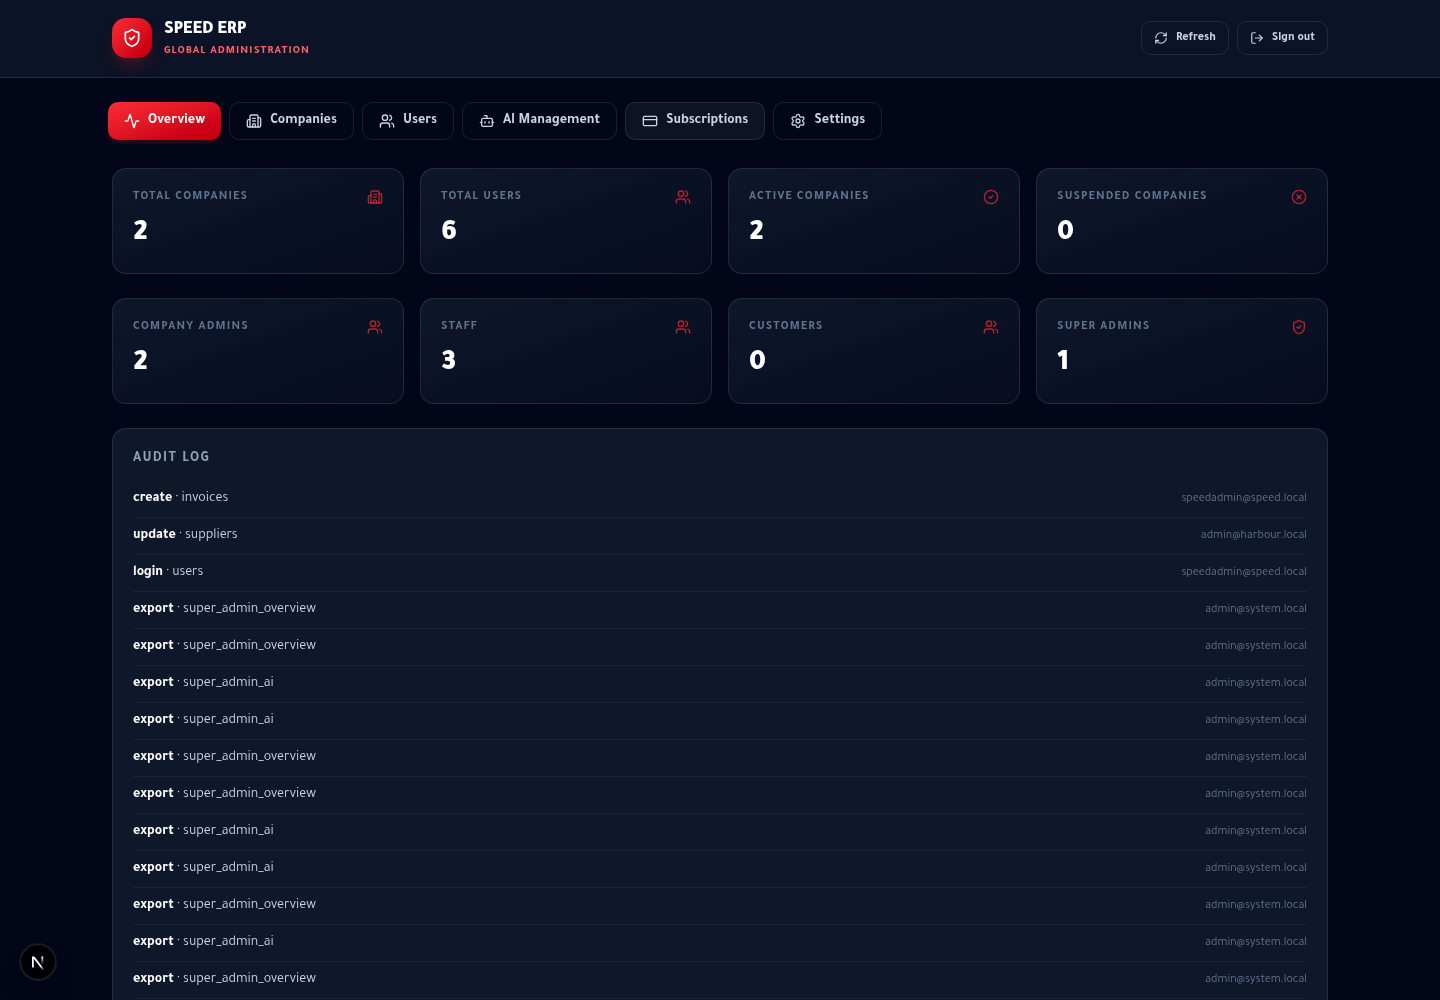
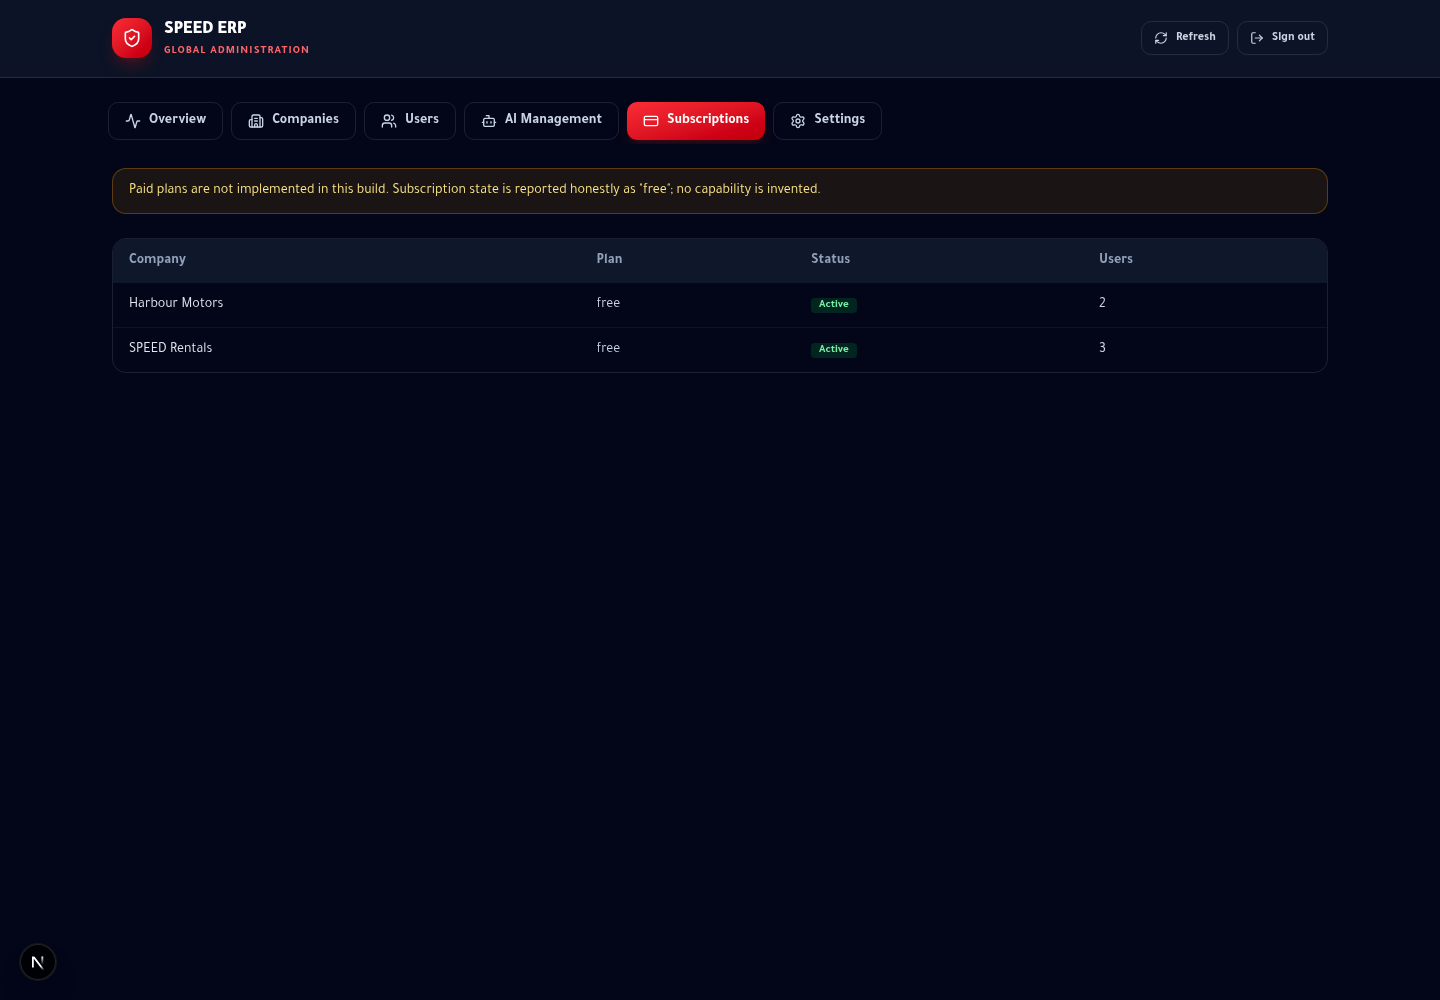
fix(exec54): super-admin tab screenshots were mislabeled
The capture script's only readiness test was `innerText.length > 80`, which the
page shell (header + tab bar) already satisfies. A click that landed before
React hydrated was silently dropped, so all six super-admin tab screenshots
were committed under the wrong names - a plausible-looking image that proved
nothing.

The script now:
  - accepts an `expect` marker per shot and fails if that text never renders;
  - retries the tab click until the target panel actually appears
    (`pageHasText`), instead of clicking once and hoping;
  - every super-admin tab declares a marker only its own panel renders
    (TOTAL COMPANIES / Action / PICK A COMPANY / REPAIR EXECUTIONS /
    "not implemented" / GLOBAL SETTINGS).

Re-captured: the six desktop tab images are now 5-60% pixel-different from each
other and have 6 distinct hashes (previously 6/6 identical). Same for mobile.
All 56 screenshots distinct, none near-blank.

Test updated to assert the stronger contract (marker + retry), not the old
length expression.

Verified: 1012 tests / 1006 pass / 0 fail / 6 skipped; typecheck 0 errors;
lint clean.

diff --git a/tests/exec53-stage2-ledger-and-acceptance.test.ts b/tests/exec53-stage2-ledger-and-acceptance.test.ts
@@ -527,7 +527,20 @@ describe("the capture script refuses to commit a blank frame", () => {
 
   test("it waits for rendered content instead of a fixed delay", () => {
     assert.match(script, /async function waitForContent/);
-    assert.match(script, /innerText\.trim\(\)\.length/);
+    assert.match(script, /text\.trim\(\)\.length/);
+  });
+
+  // A length threshold alone is satisfied by the shell (header + tab bar), so a
+  // screenshot taken before a tab panel switched was committed under the wrong
+  // name. Every shot must be able to declare a marker only its own panel renders.
+  test("a shot can assert a marker that only its own panel renders", () => {
+    assert.match(script, /expect: "/);
+    assert.match(script, /expected text "\$\{expect\}" never rendered/);
+  });
+
+  test("a tab click is retried until the panel actually switches", () => {
+    assert.match(script, /async function pageHasText/);
+    assert.match(script, /never revealed/);
   });
 
   test("it fails on duplicate screenshots", () => {
